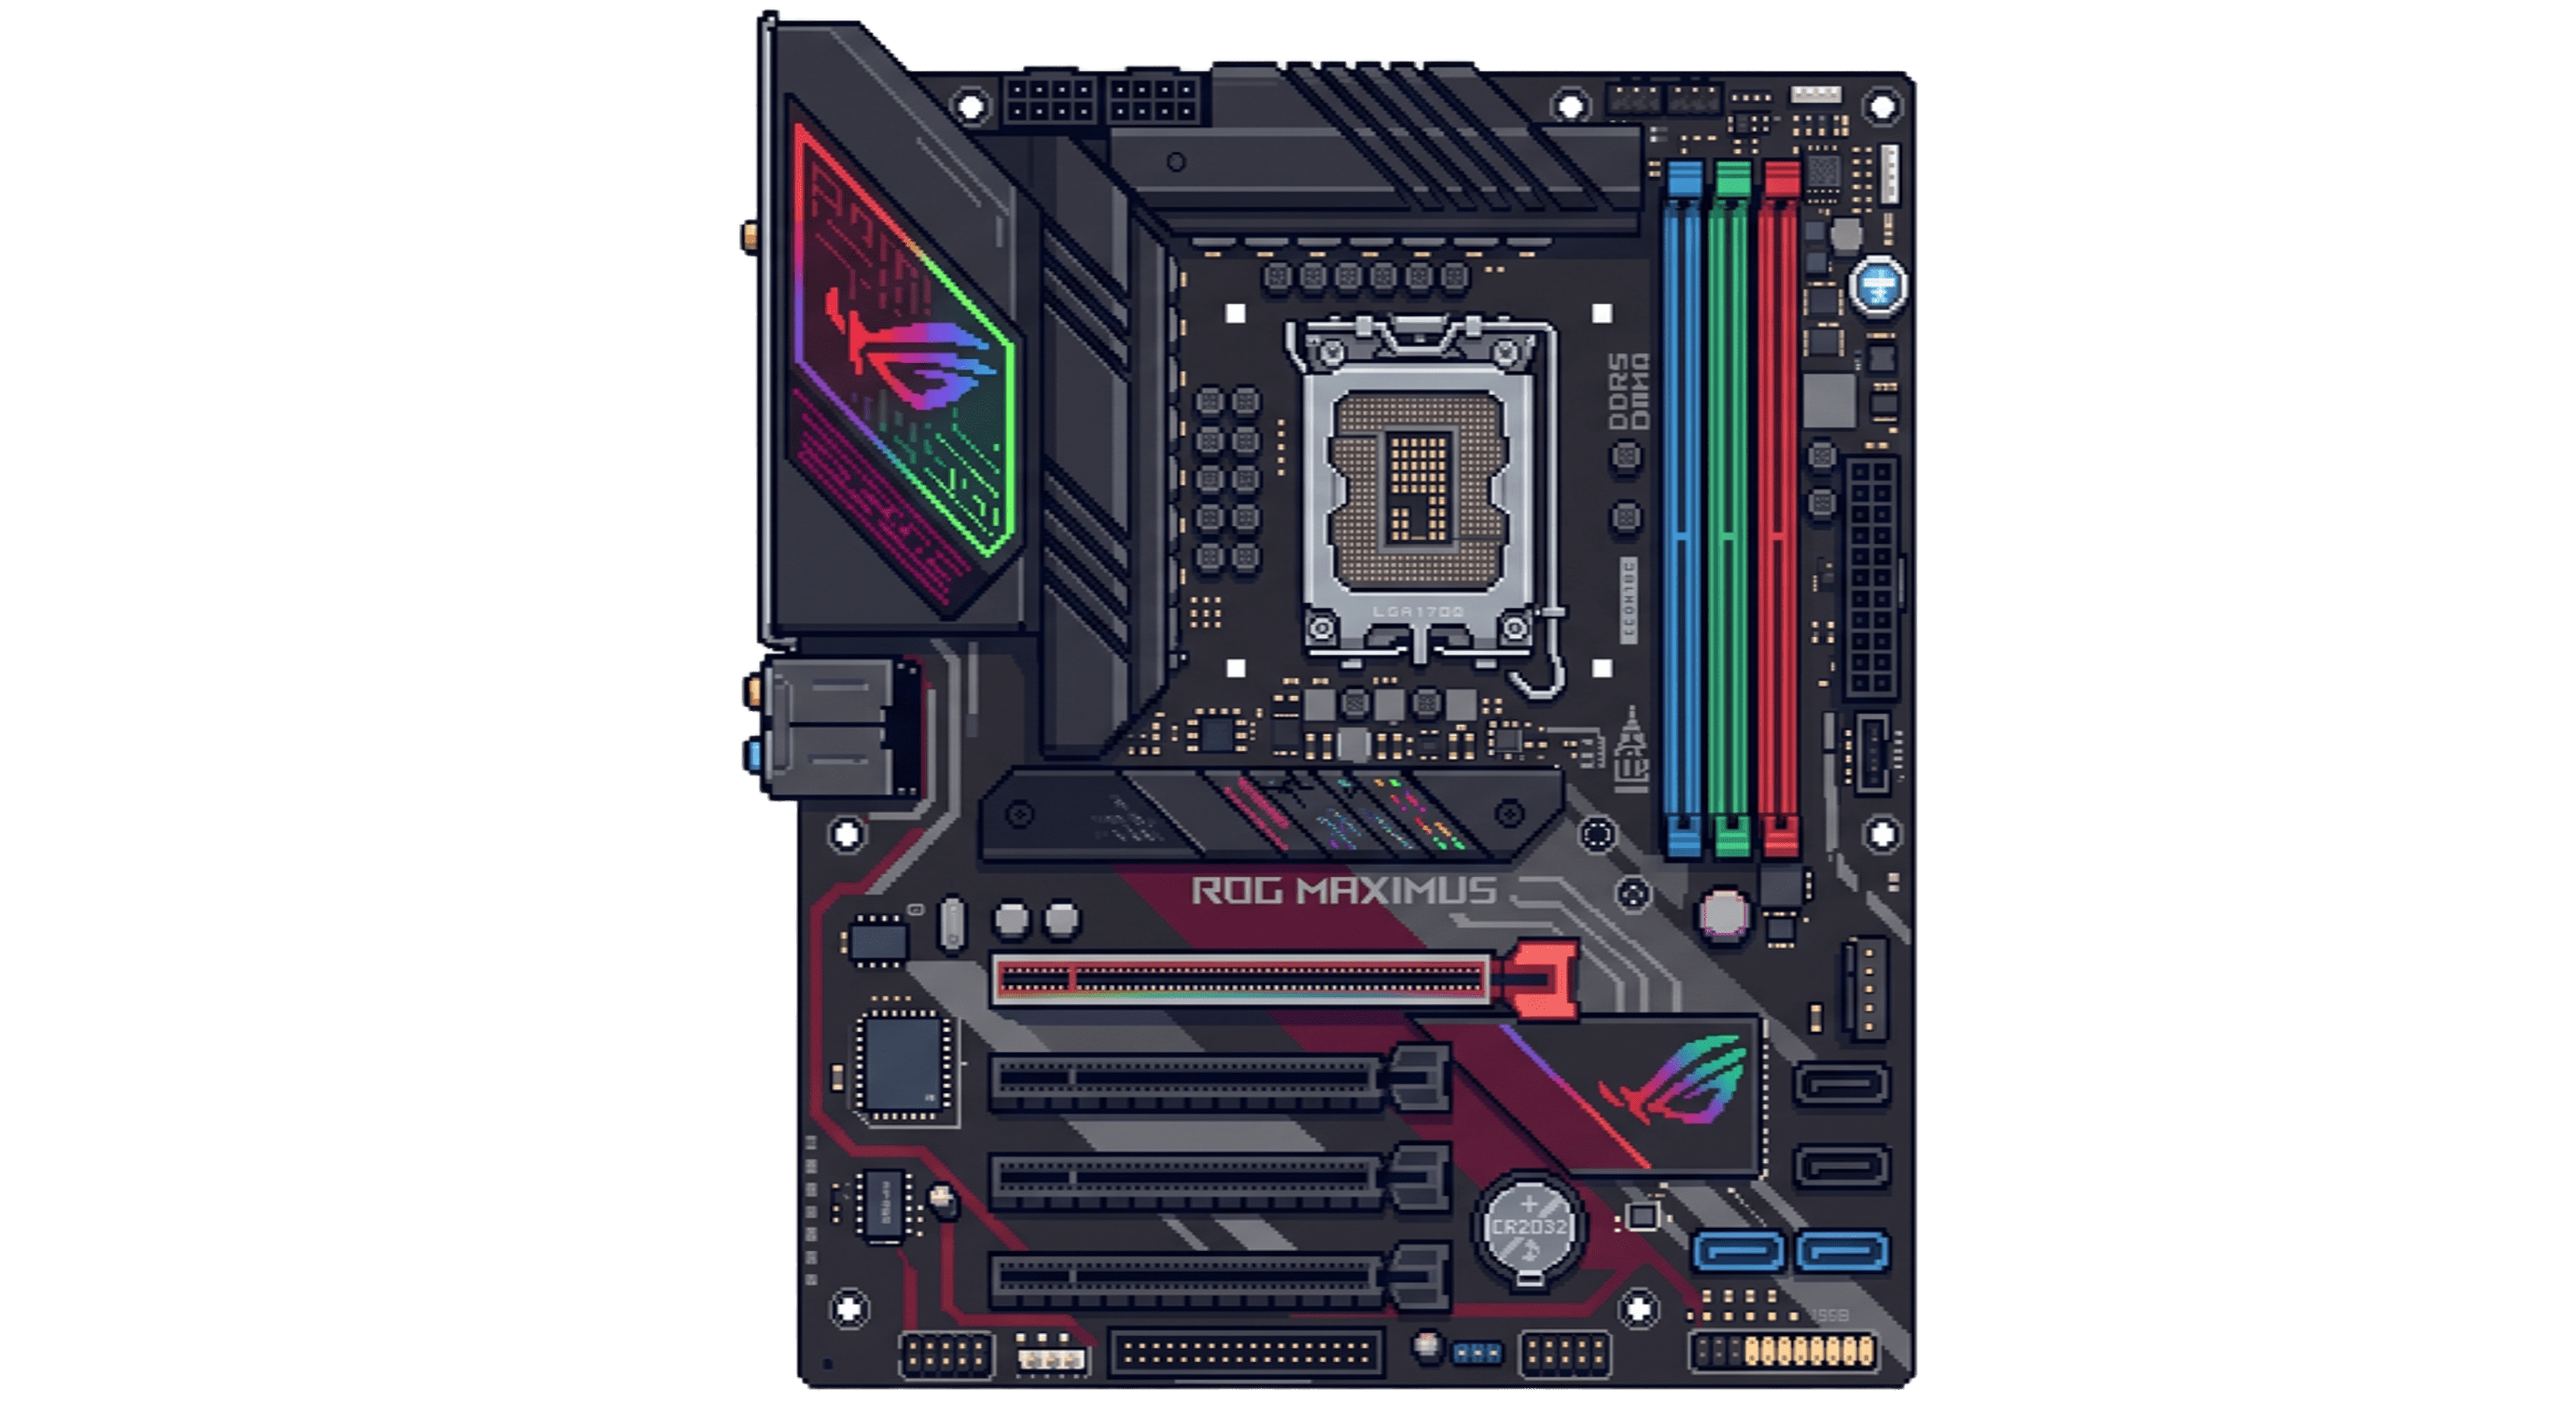
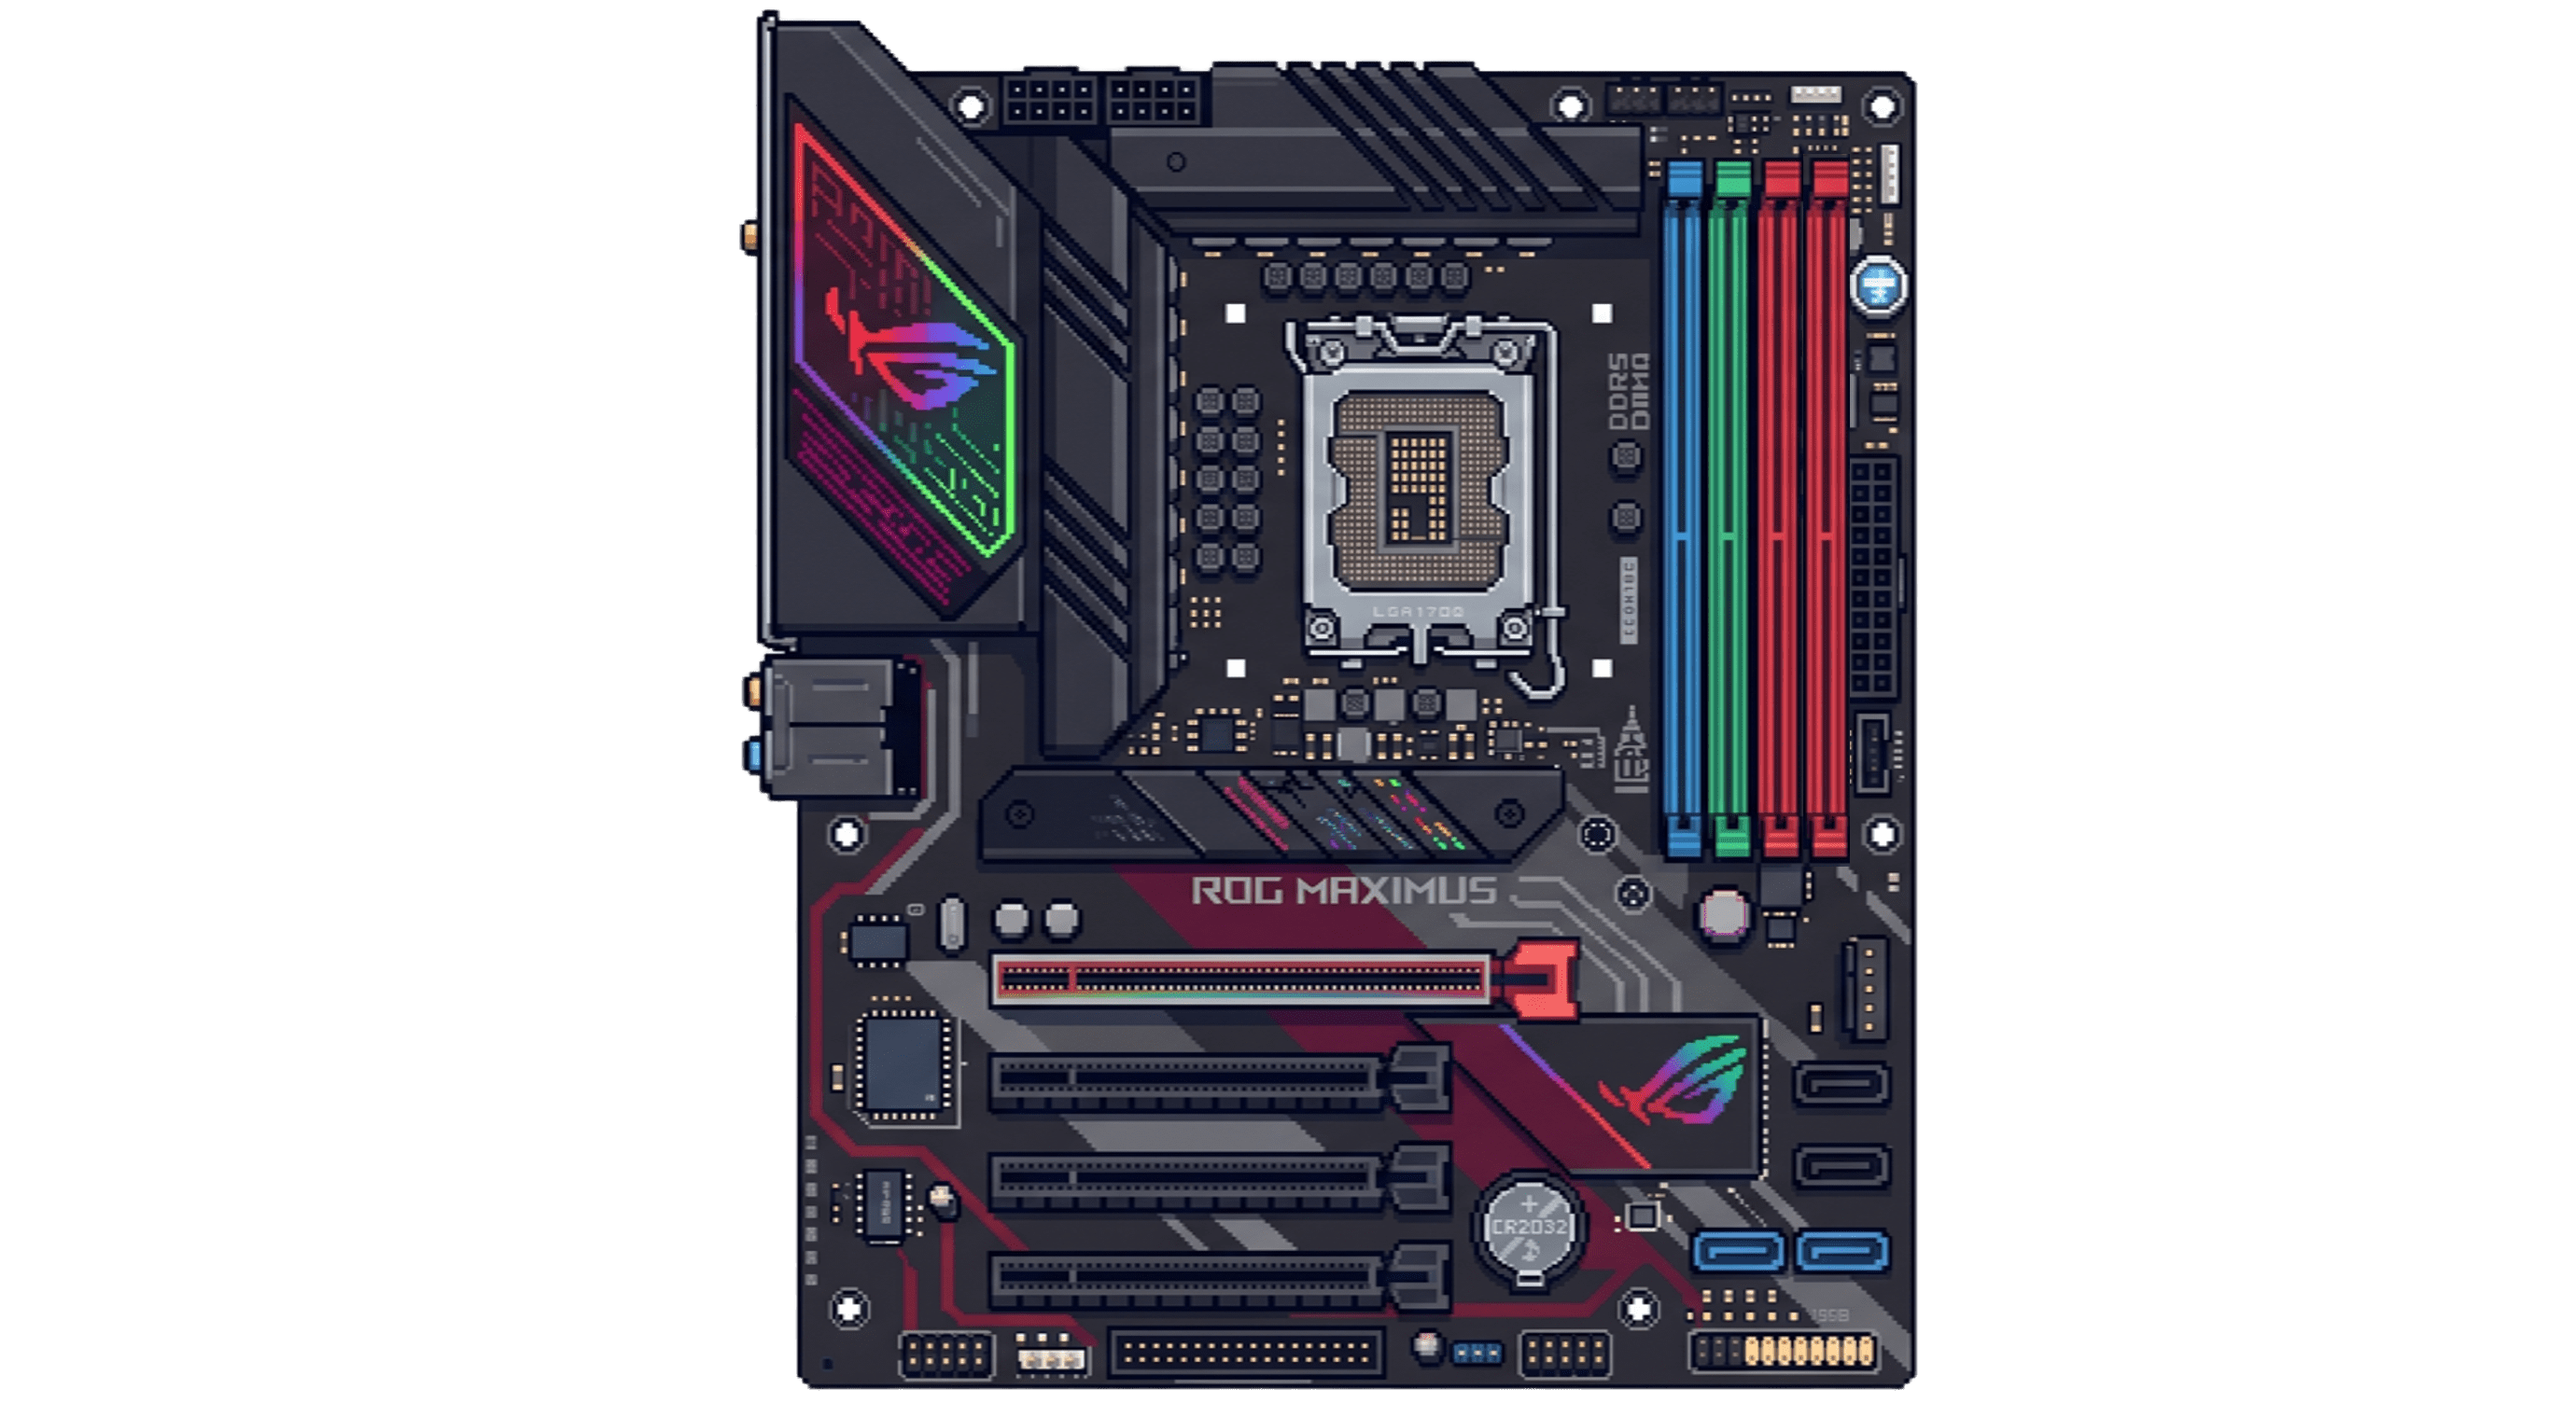
feat: corrects the visual connection between RAM memory and Mae board

Changed region(s): [[0.6855, 0.0938, 0.7167, 0.625]]

diff --git a/scripts/game.js b/scripts/game.js
@@ -5,6 +5,7 @@ const pecas = [
         modelo: 'Placa Mãe B550M',
         socket: 'AM4',
         ddr: 'DDR4',
+        ramSlots: 4,
         entradasSata: 4,
         consumoWatts: 20,
         assetKey: 'placa-mae-b550m',
@@ -20,12 +21,28 @@ const pecas = [
         modelo: 'Placa Mãe B660M',
         socket: 'LGA1700',
         ddr: 'DDR4',
+        ramSlots: 4,
         entradasSata: 4,
         consumoWatts: 25,
         assetKey: 'placa-mae-b660m',
 
         imgInventory: '../assets/components/Placa_mãe_encaixe_B660M.png',
         imgInstalled: '../assets/components/Placa_mãe_encaixe_B660M.png'
+    },
+
+        {
+        id: 'z490',
+        tipo: 'placaMae',
+        modelo: 'Placa Mãe Z490',
+        socket: 'LGA1200',
+        ddr: 'DDR4',
+        ramSlots: 4,
+        entradasSata: 6,
+        consumoWatts: 25,
+        assetKey: 'placa-mae-b550m',
+
+        imgInventory: '../assets/components/placa_mãe_encaixe_pixelart B550M.png',
+        imgInstalled: '../assets/components/placa_mãe_encaixe_pixelart B550M.png'
     },
     
     {
@@ -61,8 +78,8 @@ const pecas = [
         consumoWatts: 5,
         assetKey: 'memoria-ram-ddr3',
 
-        imgInventory: '../assets/components/memória_ram_encaixe_pixelart DDR3.png',
-        imgInstalled: '../assets/components/memória_ram_encaixe_pixelart DDR3.png'
+        imgInventory: '../assets/components/memória_ram_slot_DDR3.png',
+        imgInstalled: '../assets/components/memória_ram_slot_DDR3.png'
     },
 
     {
@@ -74,8 +91,8 @@ const pecas = [
         consumoWatts: 5,
         assetKey: 'memoria-ram-ddr4-fury',
 
-        imgInventory: '../assets/components/memória_ram_encaixe_DDR4_Fury.png',
-        imgInstalled: '../assets/components/memória_ram_encaixe_DDR4_Fury.png'
+        imgInventory: '../assets/components/memória_ram_slot_DDR4_Fury.png',
+        imgInstalled: '../assets/components/memória_ram_slot_DDR4_Fury.png'
     },
 
     {
@@ -125,20 +142,6 @@ const pecas = [
     },
 
     {
-        id: 'z490',
-        tipo: 'placaMae',
-        modelo: 'Z490',
-        socket: 'LGA1200',
-        ddr: 'DDR4',
-        entradasSata: 6,
-        consumoWatts: 25,
-        assetKey: 'placa-mae-b550m',
-
-        imgInventory: '../assets/components/placa_mãe_encaixe_pixelart B550M.png',
-        imgInstalled: '../assets/components/placa_mãe_encaixe_pixelart B550M.png'
-    },
-
-    {
         id: 'hd-1tb',
         tipo: 'armazenamento',
         modelo: 'HD1TB',
@@ -180,6 +183,7 @@ function getPieceDetails(peca) {
             return [
                 `Socket: ${peca.socket}`,
                 `Memória: ${peca.ddr}`,
+                `Slots de RAM: ${peca.ramSlots}`,
                 `Portas SATA: ${peca.entradasSata}`,
                 `Consumo: ${peca.consumoWatts} W`
             ];
@@ -248,7 +252,10 @@ function renderInventory() {
                 preview.offsetHeight / 2
             );
             document.querySelectorAll('.drop-zone').forEach(zone => {
-                zone.classList.toggle('is-available', zone.dataset.accept === peca.tipo);
+                zone.classList.toggle(
+                    'is-available',
+                    zone.dataset.accept === peca.tipo && !zone.classList.contains('is-disabled')
+                );
             });
         });
         element.addEventListener('dragend', () => {
@@ -301,7 +308,10 @@ function configureDropZones() {
             const id = event.dataTransfer.getData("text/plain");
             const peca = buscarPecaPorId(id);
             const tipoAceito = dropZone.dataset.accept;
-            if (peca && peca.tipo === tipoAceito) {
+            const slotOcupado = dropZone.classList.contains('ram-zone') && dropZone.querySelector('.installed-item');
+            if (slotOcupado) {
+                showFeedback('Este slot de memória já está ocupado.', 'error');
+            } else if (peca && peca.tipo === tipoAceito && !dropZone.classList.contains('is-disabled')) {
                 const sucesso = instalarPeca(peca);
                 if (sucesso) {
                     const element = document.createElement('div');
@@ -310,11 +320,17 @@ function configureDropZones() {
                     element.dataset.id = peca.id;
                     element.appendChild(createComponentArt(peca, true));
                     dropZone.appendChild(element);
+                    if (peca.tipo === 'placaMae') {
+                        document.querySelector('.motherboard-zone').dataset.board = peca.id;
+                        updateRamSlots();
+                    }
                     showFeedback(`Peça ${peca.modelo} instalada com sucesso!`, 'success');
                 } else {
                     showFeedback(`Falha ao instalar a peça ${peca.modelo}.`, 'error');
                 }
-            } else if(peca &&peca.tipo !== tipoAceito) {
+            } else if (peca && peca.tipo === tipoAceito && dropZone.classList.contains('is-disabled')) {
+                showFeedback('Não há slots de RAM disponíveis nesta placa-mãe.', 'error');
+            } else if (peca && peca.tipo !== tipoAceito) {
                 showFeedback(`Peça ${peca.modelo} não pode ser instalada nesta zona.`, 'error');
             }
         });
@@ -325,7 +341,9 @@ function calcConsumption() {
     let consumption = 0;
     if (computador.placaMae) consumption += computador.placaMae.consumoWatts;
     if (computador.processador) consumption += computador.processador.consumoWatts;
-    if (computador.ram) consumption += computador.ram.consumoWatts;
+    computador.ram.forEach(memoria => {
+        consumption += memoria.consumoWatts;
+    });
     if (computador.placaDeVideo) consumption += computador.placaDeVideo.consumoWatts;
     computador.armazenamentos.forEach(armazenamento => {
         consumption += armazenamento.consumoWatts;
@@ -334,7 +352,7 @@ function calcConsumption() {
 }
 
 function checkAssembly() {
-    return computador.placaMae && computador.processador && computador.ram && computador.placaDeVideo && computador.fonte && computador.armazenamentos.length > 0;
+    return computador.placaMae && computador.processador && computador.ram.length > 0 && computador.placaDeVideo && computador.fonte && computador.armazenamentos.length > 0;
 }
 
 function turnOnComputer() {
@@ -403,11 +421,14 @@ function resetComputer() {
     }
     computador.placaMae = null;
     computador.processador = null;
-    computador.ram = null;
+    computador.ram = [];
     computador.placaDeVideo = null;
     computador.armazenamentos = [];
     computador.fonte = null;
     computador.satasUsadas = 0;
+    const motherboardZone = document.querySelector('.motherboard-zone');
+    delete motherboardZone.dataset.board;
+    updateRamSlots();
 
     const installedItems = document.querySelectorAll('.installed-item');
     installedItems.forEach(item => {
@@ -425,7 +446,7 @@ resetButton.addEventListener('click', () => {
 const computador = {
     placaMae: null,
     processador: null,
-    ram: null,
+    ram: [],
     placaDeVideo: null,
     armazenamentos: [],
     fonte: null,
@@ -435,6 +456,22 @@ const computador = {
 
 function buscarPecaPorId(id) {
     return pecas.find(peca => peca.id === id);
+}
+
+function updateRamSlots() {
+    const motherboardZone = document.querySelector('.motherboard-zone');
+    const ramSlots = document.querySelectorAll('.ram-zone');
+    const limite = computador.placaMae?.ramSlots ?? 0;
+
+    ramSlots.forEach((slot, index) => {
+        const disabled = index >= limite;
+        slot.classList.toggle('is-disabled', disabled);
+        slot.setAttribute('aria-hidden', disabled ? 'true' : 'false');
+    });
+
+    if (!computador.placaMae) {
+        motherboardZone.removeAttribute('data-board');
+    }
 }
 
 function instalarPeca(peca) {
@@ -451,6 +488,7 @@ function instalarPeca(peca) {
             }
             console.log('Placa-mãe instalada com sucesso.');
             computador.placaMae = peca;
+            updateRamSlots();
             return true;
 
         case 'processador':
@@ -468,12 +506,20 @@ function instalarPeca(peca) {
             }
 
         case 'ram':
-            if(computador.ram !== null) {
-                console.log('Já existe uma RAM instalada.');
+            if (!computador.placaMae) {
+                console.log('Instale uma placa-mãe antes da memória RAM.');
+                return false;
+            }
+            if (computador.placaMae.ddr !== peca.ddr) {
+                console.log('A RAM não é compatível com a placa-mãe.');
+                return false;
+            }
+            if (computador.ram.length >= computador.placaMae.ramSlots) {
+                console.log('Não há slots de RAM disponíveis na placa-mãe.');
                 return false;
             }
             if (computador.placaMae && computador.placaMae.ddr === peca.ddr) {
-                computador.ram = peca;
+                computador.ram.push(peca);
                 console.log('RAM instalada com sucesso.');
                 return true;
             } else {
@@ -518,5 +564,6 @@ function instalarPeca(peca) {
     }
 }
 
+updateRamSlots();
 renderInventory();
 configureDropZones();

diff --git a/styles/game.css b/styles/game.css
@@ -171,12 +171,12 @@ header h1 {
     --crop-x: 472; --crop-y: 102; --crop-w: 784; --crop-h: 732;
 }
 [data-asset='memoria-ram-ddr3'] {
-    --source-w: 2760; --source-h: 1504;
-    --crop-x: 1279; --crop-y: 60; --crop-w: 254; --crop-h: 1370;
+    --source-w: 112; --source-h: 1380;
+    --crop-x: 0; --crop-y: 0; --crop-w: 112; --crop-h: 1380;
 }
 [data-asset='memoria-ram-ddr4-fury'] {
-    --source-w: 1679; --source-h: 937;
-    --crop-x: 764; --crop-y: 32; --crop-w: 161; --crop-h: 866;
+    --source-w: 112; --source-h: 1380;
+    --crop-x: 0; --crop-y: 0; --crop-w: 112; --crop-h: 1380;
 }
 [data-asset='placa-video-gtx1660'] {
     --source-w: 2816; --source-h: 1536;
@@ -266,10 +266,32 @@ header h1 {
 
 .ram-zone {
     z-index: 2;
-    top: 12%;
-    left: 79%;
-    width: 10%;
-    aspect-ratio: 159 / 843;
+    top: 10%;
+    width: 4.9%;
+    aspect-ratio: 112 / 1380;
+}
+
+/* Each memory module has its own connector. Positions are relative to the
+   motherboard crop, so they scale with the case at every viewport size. */
+.ram-slot-1 { left: 76%; }
+.ram-slot-2 { left: 81%; }
+.ram-slot-3 { left: 86%; }
+.ram-slot-4 { left: 91%; }
+
+.ram-zone > .installed-item > .component-art {
+    width: 100%;
+    height: 100%;
+    aspect-ratio: auto;
+}
+
+/* The connector artwork already identifies the slot; text inside these narrow
+   zones would overlap the neighboring connectors. The aria-labels remain for
+   assistive technology and drag feedback still highlights the active slot. */
+.ram-zone > span { display: none; }
+
+.ram-zone.is-disabled {
+    visibility: hidden;
+    pointer-events: none;
 }
 
 .video-card-zone {

diff --git a/pages/game-work-table.html b/pages/game-work-table.html
@@ -24,8 +24,17 @@
                         <div class="drop-zone cpu-zone" data-accept="processador">
                             <span>Processador</span>
                         </div>
-                        <div class="drop-zone ram-zone" data-accept="ram">
-                            <span>Memória RAM</span>
+                        <div class="drop-zone ram-zone ram-slot-1" data-accept="ram" aria-label="Slot de memória RAM 1">
+                            <span>RAM 1</span>
+                        </div>
+                        <div class="drop-zone ram-zone ram-slot-2" data-accept="ram" aria-label="Slot de memória RAM 2">
+                            <span>RAM 2</span>
+                        </div>
+                        <div class="drop-zone ram-zone ram-slot-3" data-accept="ram" aria-label="Slot de memória RAM 3">
+                            <span>RAM 3</span>
+                        </div>
+                        <div class="drop-zone ram-zone ram-slot-4" data-accept="ram" aria-label="Slot de memória RAM 4">
+                            <span>RAM 4</span>
                         </div>
                         <div class="drop-zone video-card-zone" data-accept="placaDeVideo">
                             <span>Placa de Vídeo</span>
